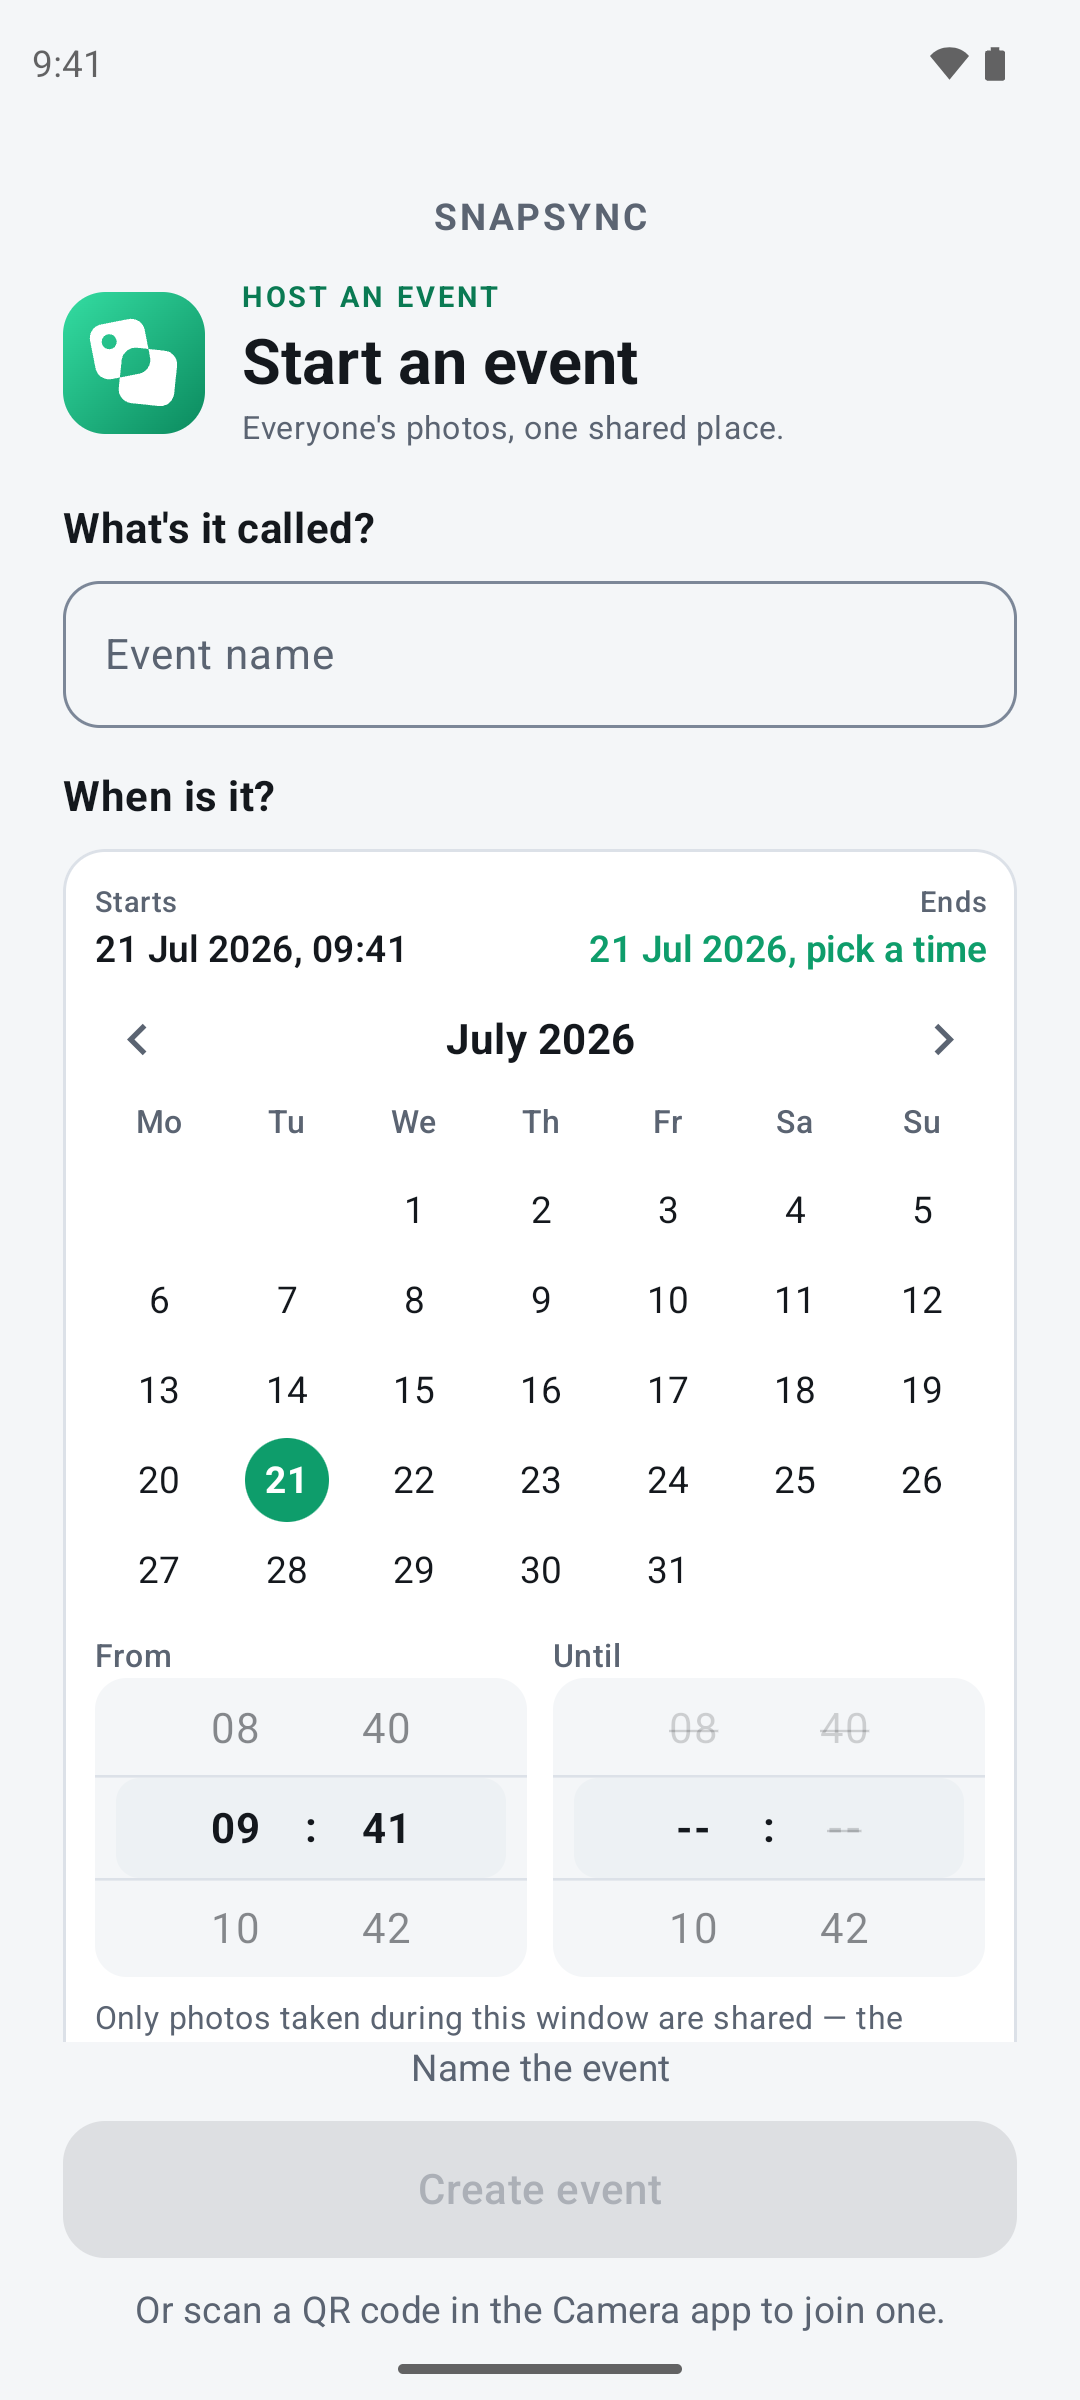
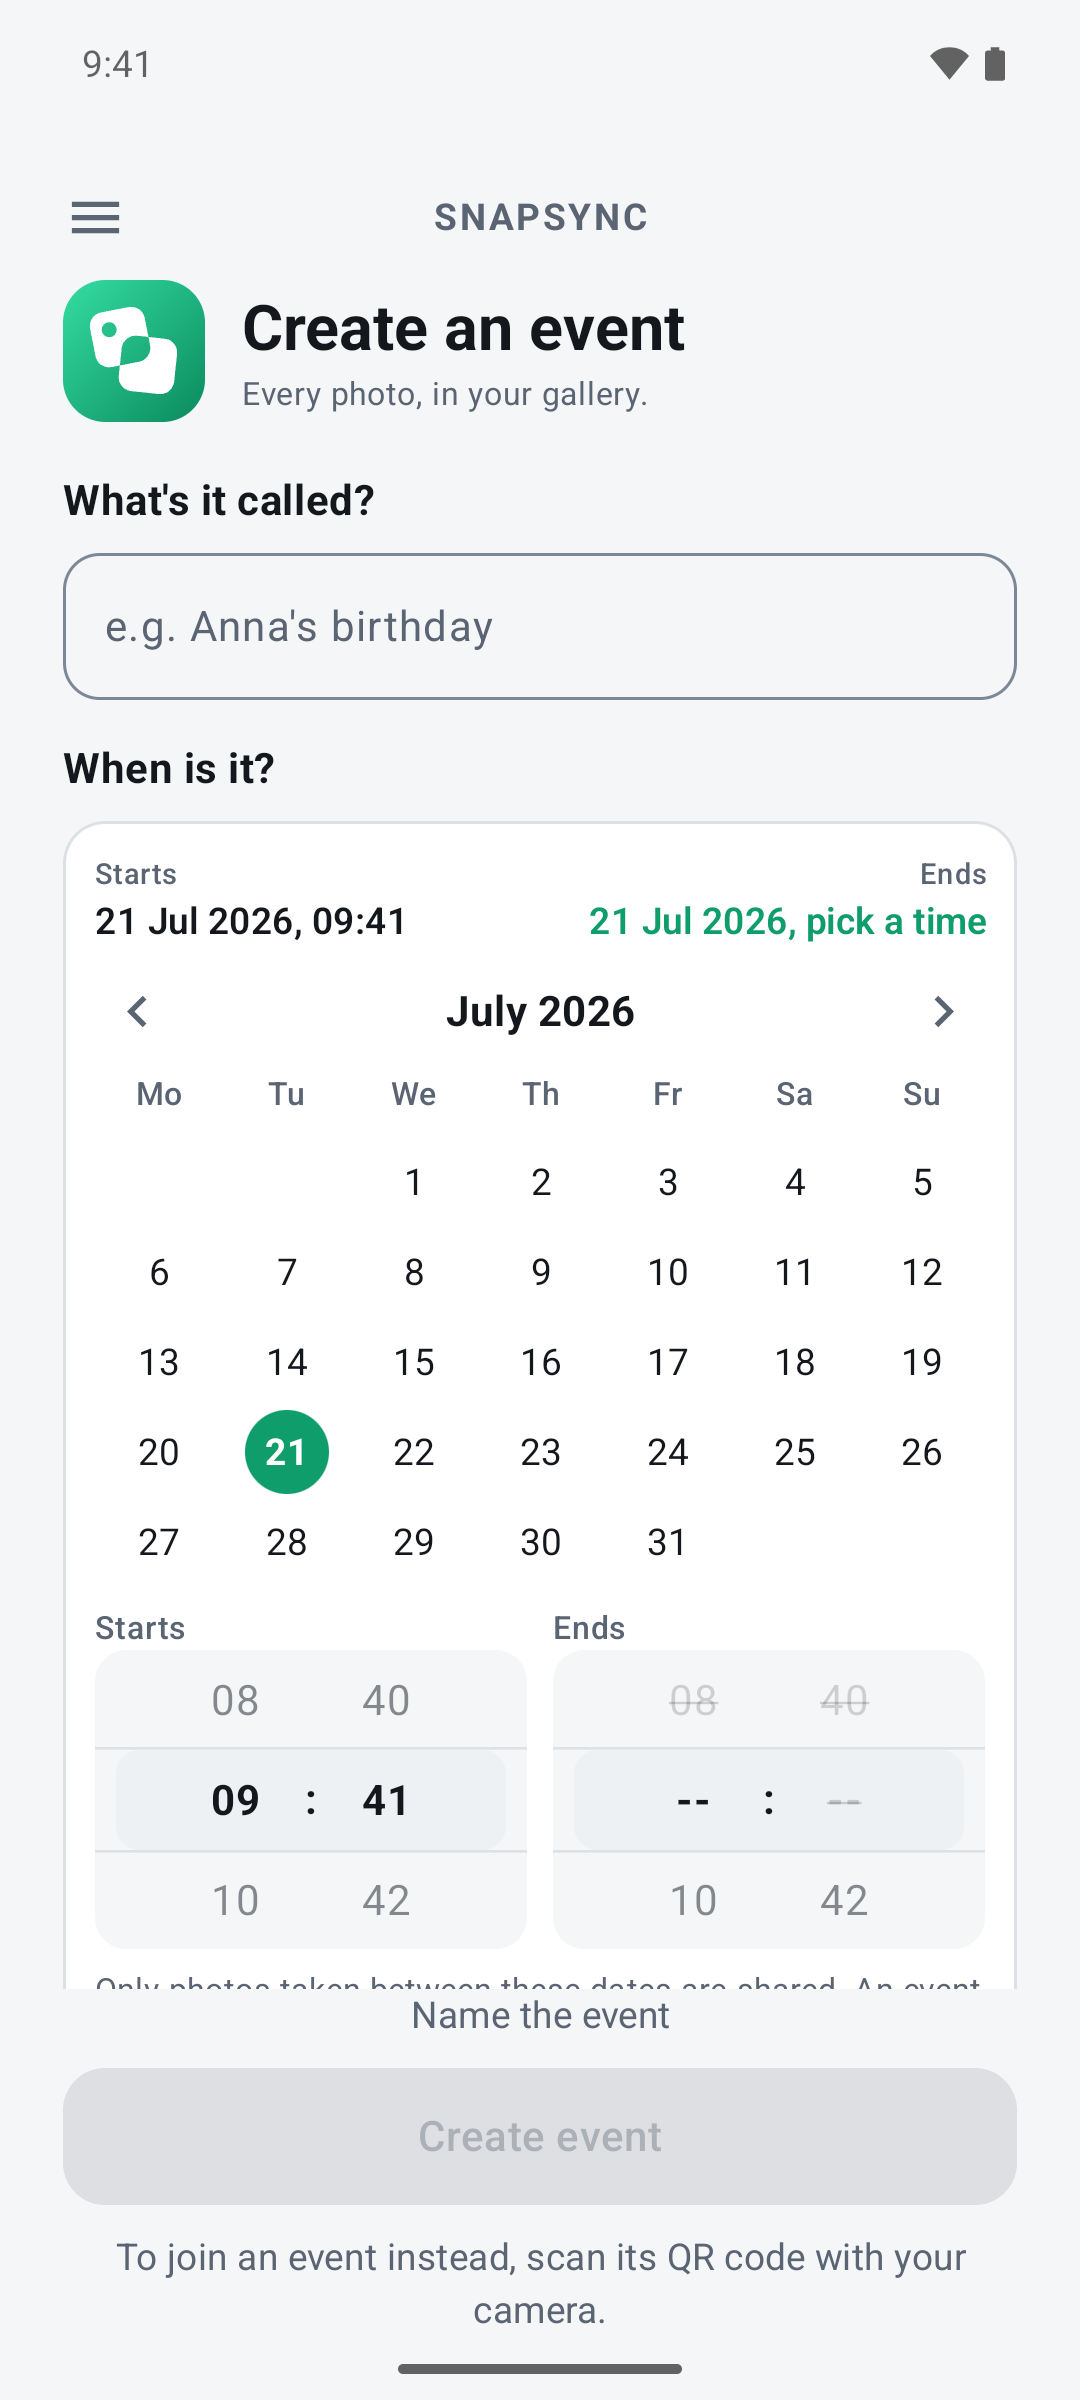
enhancement(marketing): the re-captured screenshots, all store frames on the graphic's green
- screenshots/ios/ (moved from screenshots/) and screenshots/android/: re-captured with the new app
  wording (screenshots.yml run 37345962219), checked by eye.
- Every store screenshot sits on the use-case graphic's gradient (metadata/graphic/bg-*.png), not the flat
  brand green, so the four frames of a set read as one and match the Play banner and the site header.
- The site header is the Play banner with real text; a narrow render keeps it whole on small phones.

diff --git a/metadata/graphic/graphic.py b/metadata/graphic/graphic.py
@@ -170,6 +170,12 @@ LAYOUTS = {
     # same headline and support line over its left half as real text (selectable, translatable, read aloud).
     "site-hero": dict(w=1100, h=400, scale=2, out="metadata/graphic/site-hero.png", copy=False,
         stage_css="left:600px;top:0;transform:scale(.8);transform-origin:0 0", bg="70% 100% at 74% 55%"),
+    # The store screenshots' background (`compose_screenshots.sh` lays each app capture on it), so every frame of a
+    # store's set shares the graphic's green — the same gradient as the first frame, without its phones or words.
+    "bg-appstore": dict(w=440, h=956, scale=3, out="metadata/graphic/bg-appstore.png", copy=False, stage=False,
+        bg="80% 60% at 55% 55%"),
+    "bg-play": dict(w=360, h=640, scale=3, out="metadata/graphic/bg-play.png", copy=False, stage=False,
+        bg="80% 60% at 55% 60%"),
     # The same hero on a phone-width page: the phones alone, centred, on a TRANSPARENT background — the page
     # paints the green behind both the words and the picture, so there is no seam between them.
     "site-hero-narrow": dict(w=360, h=250, scale=3, out="metadata/graphic/site-hero-narrow.png", copy=False,
@@ -191,5 +197,6 @@ def page(layout, tagline):
     return (f'<!doctype html><meta charset="utf-8"><style>{CSS}</style>{page_bg}<body>'
             f'<svg width="0" height="0" style="position:absolute">{scenes()}</svg>'
             f'<div class="canvas" style="width:{L["w"]}px;height:{L["h"]}px;{bg}">{copy}'
-            + stage().replace('<div class="stage">', f'<div class="stage" style="{L["stage_css"]}">', 1)
+            + (stage().replace('<div class="stage">', f'<div class="stage" style="{L["stage_css"]}">', 1)
+               if L.get("stage", True) else "")
             + '</div>')

diff --git a/docs/deployment.md b/docs/deployment.md
@@ -609,7 +609,7 @@ no Gradle, no signing, only the existing Admin ASC key and Play service account.
 6. With `ios`, unless already submitted: find or create the `X.Y` version record and attach the build (idempotent).
    A **newly created** record gets the committed copyright (year of first publication). An existing record's
    copyright is left alone. Upload the listing screenshots — the use-case graphic first, then the app captures
-   composed from `screenshots/*.png` + `metadata/screenshots/en-US.json` (ImageMagick) — only an **editable** version is written to, and the set is
+   composed from `screenshots/ios/*.png` + `metadata/screenshots/en-US.json` (ImageMagick) — only an **editable** version is written to, and the set is
    **replaced**. Apply the `en-US` `whatsNew` and the App Review details (notes from `metadata/review/notes.md`;
    contact details from secrets because the repo is public; "no demo account").
 7. **Preflight** every selected store before either submit: `asc review doctor` must report no blocking check;
@@ -662,11 +662,13 @@ Every output is committed and none may be edited by hand. Change the geometry or
 
 **The use-case graphic** is the other store art: two generic phones on the brand green, one camera taking a photo
 and it arriving in the other's gallery, with the tagline. `metadata/graphic/graphic.py` builds it as HTML and
-`uv run metadata/graphic/render.py` renders it in headless Chromium into five committed PNGs: Play's 1024×500
+`uv run metadata/graphic/render.py` renders it in headless Chromium into seven committed PNGs: Play's 1024×500
 feature graphic (`metadata/play/images/featureGraphic.png`), the first store screenshot for each store
 (`metadata/graphic/frame-appstore.png` 1320×2868, `frame-play.png` 1080×1920) and the landing page's hero
 (`metadata/graphic/site-hero.png`, the feature graphic's composition without words, which the page sets as text,
-and `site-hero-narrow.png`, the phones alone on a transparent background for phone-width pages). Its words are the `tagline` in `metadata/screenshots/en-US.json`; each render
+and `site-hero-narrow.png`, the phones alone on a transparent background for phone-width pages),
+and the store screenshots' background for each store (`bg-appstore.png`, `bg-play.png`): the graphic's gradient alone,
+which `compose_screenshots.sh` lays every app capture on, so all four frames of a set share one green. Its words are the `tagline` in `metadata/screenshots/en-US.json`; each render
 carries the tagline it was made with, and the `metadata` gate (`metadata/graphic/check.py`) fails when the JSON has
 moved on without a re-render. The phones must stay generic (no Dynamic Island, no Apple layout): Apple allows its
 hardware in listing images only as a photograph of the real product.
@@ -723,7 +725,7 @@ hardware in listing images only as a photograph of the real product.
 
 ### Screenshots
 
-Six committed raws in `screenshots/` (3 states × light/dark) feed **both** the App Store listing
+Six committed raws in `screenshots/ios/` (3 states × light/dark) feed **both** the App Store listing
 (uploaded at promote time only) and the `site/` landing page (on merge). A merge that changes them
 changes **no** listing. Each capture is the **real app** — the rig build on a simulator — in a state its real
 reduction reached: `screenshots.yml` sets its launch adapters to mock every system but the screen and the app's
@@ -737,7 +739,7 @@ host inside `build`, so they cannot rot between dispatches.
 ```
 gh workflow run screenshots.yml --ref <branch>          # ~11-19 min
 RID=$(gh run list -w screenshots.yml -L1 --json databaseId -q '.[0].databaseId')
-gh run download "$RID" -n screenshots-raw -D screenshots
+gh run download "$RID" -n screenshots-raw -D screenshots/ios   # refuses to overwrite: download elsewhere and copy
 # LOOK AT THEM, then: git add screenshots/ && git commit
 ```
 

diff --git a/CLAUDE.md b/CLAUDE.md
@@ -95,7 +95,7 @@ openspec/       specs/ (contract of record: user-observable outcomes) + changes/
 docs/           architecture.md · testing.md · deployment.md - engineering explanation (app + api), NOT contract
 architecture/   GENERATED diagrams - `./gradlew architectureDiagrams` and commit; stale blocks the PR
 metadata/       the listing copy both stores render from (listing/), App Review notes, Play declarations + art
-screenshots/    the 6 committed raw captures both the listing and the site derive from
+screenshots/    the committed raw captures: ios/ (the App Store listing and the site) and android/ (Google Play)
 scripts/        build and dev tooling (the phones' locks, guard and re-sign are the global `device` skill's)
 .ship/          this repo's half of the global `/ship` skill - gates, PR-title policy,
                 post-merge hook, merge budgets (contract: `~/.claude/skills/ship/hooks.md`)
@@ -361,7 +361,7 @@ gh workflow run promote.yml -f build_number=2140 -f ios=false               # Pl
     --repo stefanhoelzl/SnapSync --target <origin-sha> --previous vX.Y
   ```
 
-**Refreshing the marketing screenshots** — `screenshots/*.png`, 6 raws, 3 states × light/dark, captured from the
+**Refreshing the marketing screenshots** — `screenshots/ios/*.png`, 6 raws, 3 states × light/dark, captured from the
 **real app** (the rig build on a simulator, every system mocked but the screen and its foreground life) driven to
 each state by the scenarios in `:test:integration`'s `Shots.kt` — which `ShotsTest` also runs on the JVM host in
 `build`. To add or change a state, change `Shots.kt`. The same dispatch's `android` job captures Google Play's six
@@ -373,7 +373,7 @@ committed raws (Google Play's listing from `screenshots/android/`, on the merge 
 ```
 gh workflow run screenshots.yml --ref <branch>          # ~11-19 min
 RID=$(gh run list -w screenshots.yml -L1 --json databaseId -q '.[0].databaseId')
-gh run download "$RID" -n screenshots-raw -D screenshots
+gh run download "$RID" -n screenshots-raw -D screenshots/ios   # refuses to overwrite: download elsewhere and copy
 # LOOK AT THEM (below), then:
 git add screenshots/ && git commit
 ```

diff --git a/openspec/changes/refresh-marketing-wording/tasks.md b/openspec/changes/refresh-marketing-wording/tasks.md
@@ -48,5 +48,5 @@ The wording to apply is in `wording.md`; the graphic to build is in `reference/`
 
 ## 7. Re-capture and integration
 
-- [ ] 7.1 Run `screenshots.yml` against the branch, download both raw sets, check each one by eye per the runbook, and commit `screenshots/` and `screenshots/android/`. Verify that the create and joining captures show the new wording
-- [ ] 7.2 Run the full set locally: `./gradlew build`, the site build, the compositor for both targets, and `openspec validate --strict` for the change. Then review the rendered App Store and Play sets and the landing page against `reference/` and `wording.md`
+- [x] 7.1 Run `screenshots.yml` against the branch, download both raw sets, check each one by eye per the runbook, and commit `screenshots/` and `screenshots/android/`. Verify that the create and joining captures show the new wording
+- [x] 7.2 Run the full set locally: `./gradlew build`, the site build, the compositor for both targets, and `openspec validate --strict` for the change. Then review the rendered App Store and Play sets and the landing page against `reference/` and `wording.md`

diff --git a/openspec/changes/refresh-marketing-wording/design.md b/openspec/changes/refresh-marketing-wording/design.md
@@ -72,7 +72,7 @@ Rejected because it is exactly the "artist's rendering" the guideline bars.
 **D5 — The concept frame is a pre-rendered image the compositor puts first.** `compose_screenshots.sh`
 emits `01-graphic.png` from the committed render for its target and canvas size. The app captures
 follow as `02-…` to `04-…` with their headlines, as today. The graphic carries its own text, so the
-compositor adds none. Both targets get the frame. Unchanged inputs must still produce unchanged bytes,
+compositor adds none. Both targets get the frame. Every frame of a set sits on the graphic's green gradient (a committed background render per store), not on the flat brand green the compositor used before, so the four frames read as one set and match the Play banner and the site header. Unchanged inputs must still produce unchanged bytes,
 because the Play delivery uploads only a set whose hashes changed.
 
 **D6 — `words` leaves the listing.** "Gallery" is now the same on both stores, so the `{{gallery}}`
